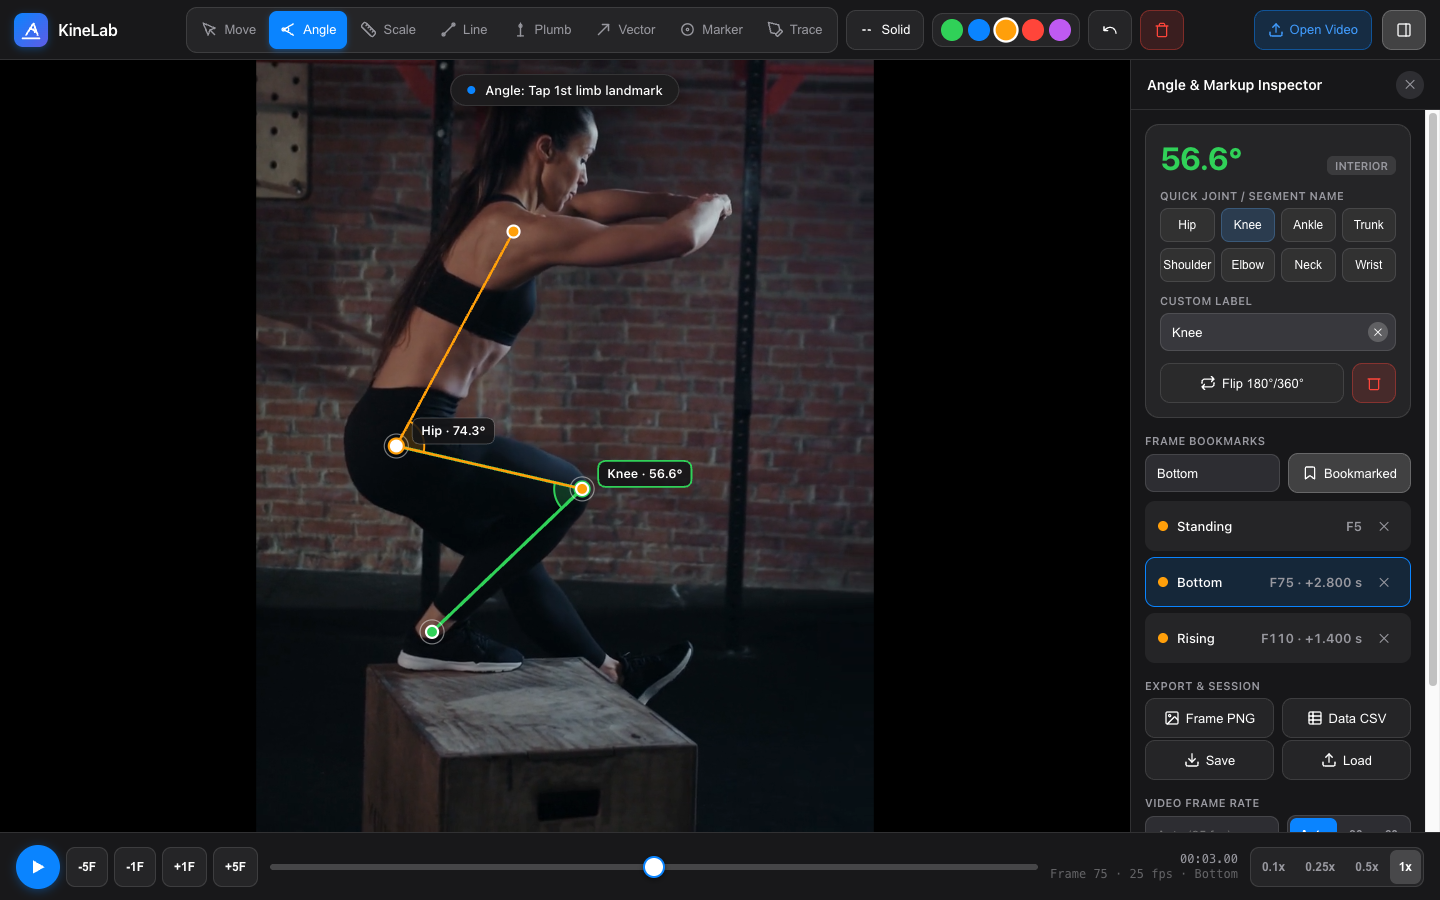
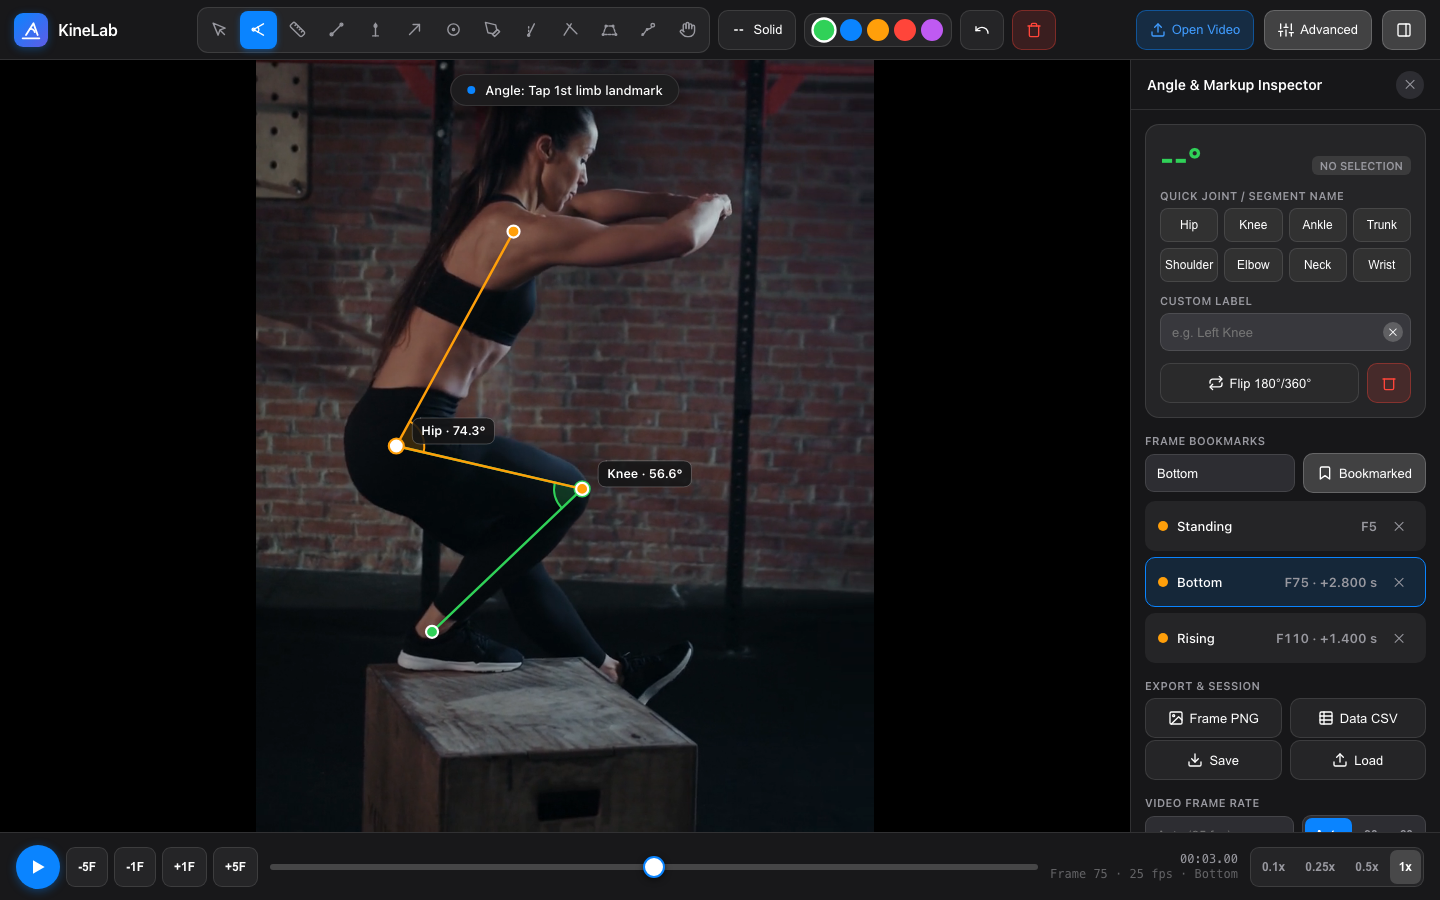
Show Advanced mode in the README screenshots
Retake the main screenshot with Advanced on, add pose-detected joint
tracks with a knee angle graph and trunk and shin lean segments, and
drop the old rising-phase shot.

diff --git a/README.md b/README.md
@@ -8,7 +8,7 @@ The whole app is a single `index.html`. There's no install, no account and no se
 
 ## Getting started
 
-**[Open KineLab in your browser](https://w17ant.github.io/KineLab/)**, or download `index.html` and open it in Chrome, Safari or Edge. Either way the video stays on your machine. If you'd rather try it before using your own footage, the `docs` folder has a six second side-on single-leg box squat (`box-squat-side.mp4`) and a saved session for it (`box-squat-side.kinelab.json`). Open the video, then press Load in the sidebar and pick the session file to see the screenshots below come to life.
+**[Open KineLab in your browser](https://w17ant.github.io/KineLab/)**, or download `index.html` and open it in Chrome, Safari or Edge. Either way the video stays on your machine. If you'd rather try it before using your own footage, the `docs` folder has a six second side-on single-leg box squat (`box-squat-side.mp4`) and a saved session for it (`box-squat-side.kinelab.json`). Open the video, then press Load in the sidebar and pick the session file to get the angles and bookmarks in the first screenshot below.
 
 It works with a finger or Apple Pencil on an iPad as well as with a mouse. On touch, points land a little above your fingertip so your finger never hides the joint you're aiming at, and a magnifier shows exactly where the point will go.
 
@@ -53,9 +53,19 @@ The Advanced button in the top bar adds a second set of tools for people who wan
 
 **Point tracking.** Pick a track (hip, knee, bar, toe, or your own name) and click the joint on each frame. KineLab advances a frame after every click and draws the path. With a scale set you get speed in m/s, vertical position and acceleration, plotted against time, and you can graph a joint angle built from three tracks. Velocities use a central difference over neighbouring frames, so a gap of more than two frames breaks the line rather than inventing a number. `T` picks the tracking tool.
 
-**Pose detection.** Detect places hip, knee, ankle, shoulder and elbow angles on the current frame using Google's MediaPipe pose model, and Track whole clip fills point tracks for a range of frames. The model (about 9 MB) downloads the first time you press it. Your video is still processed on your own machine. Treat the points as a starting draft: drag any that landed on the wrong side of the body.
+**Pose detection.** Detect places hip, knee, ankle, shoulder and elbow angles on the current frame using Google's MediaPipe pose model, and Track whole clip fills point tracks for a range of frames. The model (about 9 MB) downloads the first time you press it. Your video is still processed on your own machine. Treat the points as a starting draft: drag any that landed on the wrong side of the body. Pick the side nearest the camera, too. On the demo clip the right (near) leg comes out at 57.4° at the bottom of the squat against 56.6° placed by hand, while the far leg is mostly guesswork.
+
+<p align="center">
+  <img src="docs/app-advanced-tracking.png" alt="Hip, knee and ankle paths from pose detection drawn over the squat, with a graph of knee angle over time falling from about 169 degrees to 50 and rising again" width="100%">
+</p>
+
+The picture above came from two presses of Track this phase on the demo clip, one from Standing and one from Bottom. The graph is the knee angle worked out from the hip, knee and ankle tracks, with the three bookmarks marked along the bottom. The foot points jitter where the shoe meets the box, which is typical of pose models and why the knee curve is a little ragged.
 
 **More measurements.** Segment gives the angle of a body segment from vertical (trunk lean, shin angle). Lines∠ measures the angle between two separate lines, like trunk against shin. Plane corrects for perspective: click the four corners of a rectangle of known size on the floor and distances measured on that plane come out right even when the camera isn't square.
+
+<p align="center">
+  <img src="docs/app-advanced-segments.png" alt="The rising phase of the squat with trunk lean at 13.2 degrees and shin lean at 30.6 degrees from vertical" width="100%">
+</p>
 
 **Zoom, pan and mirror.** `Ctrl`/`⌘` + scroll or a pinch zooms at the cursor, `H` picks the hand tool for panning, `0` fits the frame again. `M` mirrors the picture so a left-side clip can be compared with a right-side one. Lengths and angles don't change when mirrored, but line tilt flips sign, since it follows what you see.
 
@@ -104,10 +114,6 @@ ffmpeg -i old-export.mp4 -c:v libx264 -crf 16 -pix_fmt yuv420p fixed.mp4
 ```
 
 HandBrake does the same job if you'd rather not use a terminal.
-
-<p align="center">
-  <img src="docs/app-rising.png" alt="The rising phase of the same squat, with knee at 102.4 degrees and hip at 119.8 degrees" width="100%">
-</p>
 
 ## Running it locally
 
